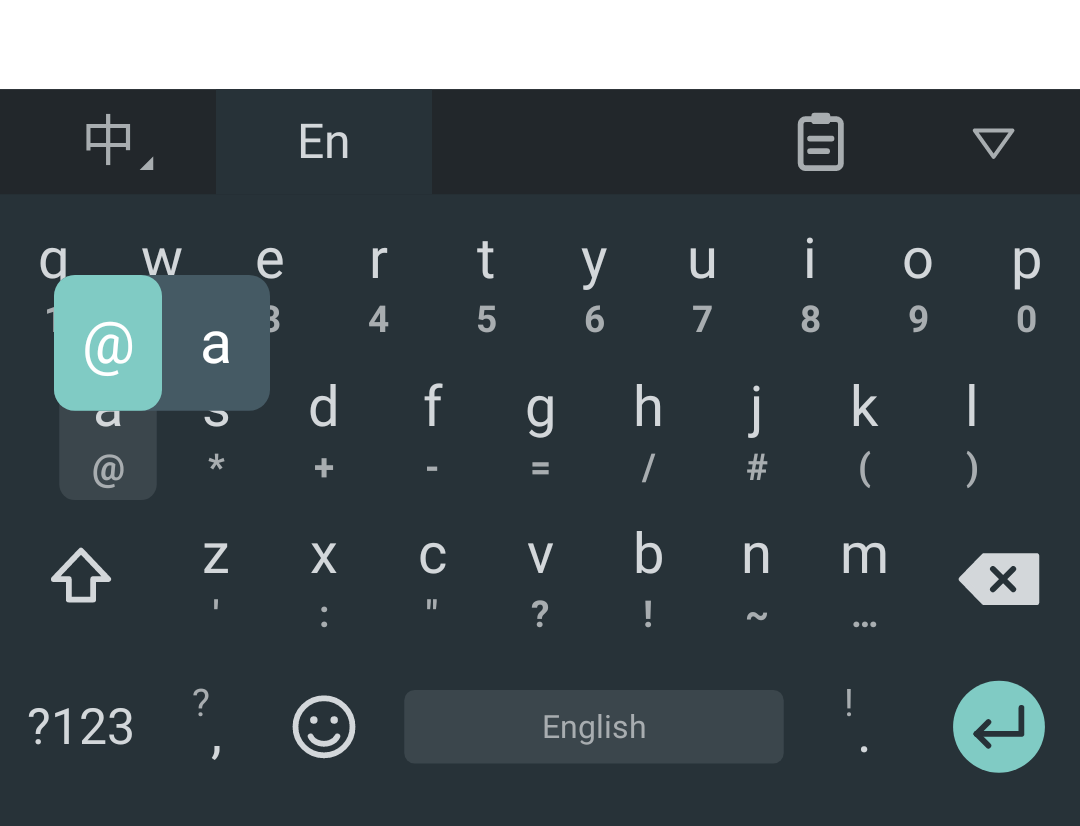
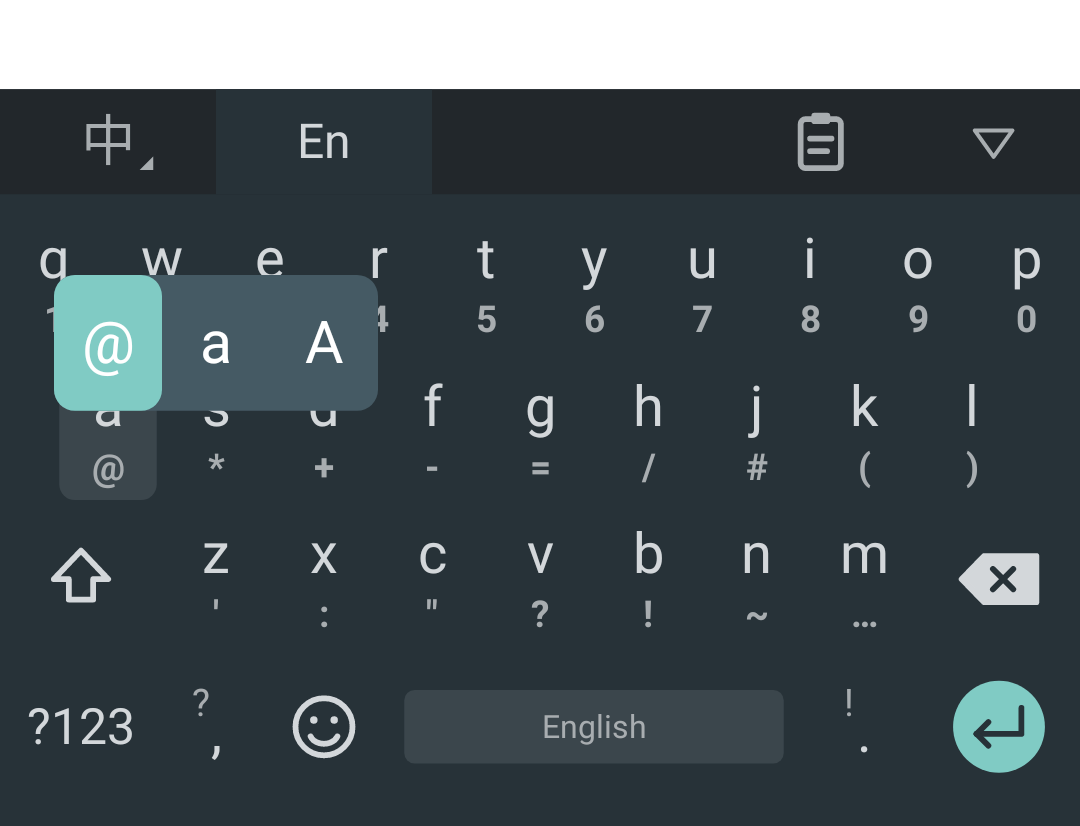
英文長按多了大寫字母；修正工作室拖圓角滑桿時放大的按鍵沒有跟著變
- 長按字母：符號、目前大小寫、另一種大小寫（@ a A），選哪個就照原樣打出來
- 主題工作室：改樣式、拖滑桿、改圖案時，放大的按鍵也會立刻重畫

Claude-Session: https://claude.ai/code/session_01YEi7AGz9LaiD389faVzAY6

Changed region(s): [[0.2444, 0.3329, 0.3667, 0.5145]]

diff --git a/app/src/test/java/io/github/yolanda1027/catpaw/EnglishLongPressTest.kt b/app/src/test/java/io/github/yolanda1027/catpaw/EnglishLongPressTest.kt
@@ -1,0 +1,72 @@
+package io.github.yolanda1027.catpaw
+
+import android.os.SystemClock
+import android.view.MotionEvent
+import android.view.View
+import org.junit.Assert.assertEquals
+import org.junit.Assert.assertTrue
+import org.junit.Test
+import org.junit.runner.RunWith
+import org.robolectric.RobolectricTestRunner
+import org.robolectric.RuntimeEnvironment
+import org.robolectric.annotation.Config
+import org.robolectric.annotation.GraphicsMode
+import org.robolectric.shadows.ShadowLooper
+import java.util.concurrent.TimeUnit
+
+/** 英文字母長按：@ a A 三個選項，選哪個就照原樣打哪個（不管大寫有沒有開） */
+@RunWith(RobolectricTestRunner::class)
+@GraphicsMode(GraphicsMode.Mode.NATIVE)
+@Config(sdk = [34], qualifiers = "w411dp-h891dp-420dpi")
+class EnglishLongPressTest {
+
+    private fun longPressA(shift: Int, slideToX: Float?): Key? {
+        val ctx = RuntimeEnvironment.getApplication()
+        val kv = CatKeyboardView(ctx, Prefs(ctx), Haptics(ctx))
+        kv.rows = Layouts.ENGLISH
+        kv.isChinese = false
+        kv.shiftState = shift
+        kv.measure(View.MeasureSpec.makeMeasureSpec(1080, View.MeasureSpec.EXACTLY), View.MeasureSpec.UNSPECIFIED)
+        kv.layout(0, 0, kv.measuredWidth, kv.measuredHeight)
+        var got: Key? = null
+        kv.listener = object : CatKeyboardView.Listener {
+            override fun onKey(key: Key, longPress: Boolean) { got = key }
+            override fun onTabChinese() {}
+            override fun onTabEnglish() {}
+            override fun onHide() {}
+            override fun onCandidate(index: Int) {}
+            override fun onSymbolTab(index: Int) {}
+            override fun onSymbolSwipe(direction: Int) {}
+            override fun onClipboard() {}
+            override fun onQuick(item: String) {}
+        }
+        // a：第二排第一顆（前面空半格），中心 x = 108
+        val rowEn = 45f * 5 / 4 * 2.625f
+        val y = 89f + 105f + 16f + rowEn * 1.5f
+        val t = SystemClock.uptimeMillis()
+        kv.dispatchTouchEvent(MotionEvent.obtain(t, t, MotionEvent.ACTION_DOWN, 108f, y, 0))
+        ShadowLooper.idleMainLooper(600, TimeUnit.MILLISECONDS)
+        val x = slideToX ?: 108f
+        kv.dispatchTouchEvent(MotionEvent.obtain(t, t + 700, MotionEvent.ACTION_MOVE, x, y, 0))
+        kv.dispatchTouchEvent(MotionEvent.obtain(t, t + 750, MotionEvent.ACTION_UP, x, y, 0))
+        return got
+    }
+
+    @Test fun releaseRightAwayTypesTheSymbol() {
+        assertEquals("@", longPressA(0, null)?.text)
+    }
+
+    @Test fun slideToUppercase() {
+        // 選項：@（54–162）、a（162–270）、A（270–378）
+        val k = longPressA(0, 324f)!!
+        assertEquals("A", k.text)
+        assertTrue(k.exact)
+    }
+
+    @Test fun lowercaseStaysLowercaseEvenWithShift() {
+        // 開大寫時選項變成 @ A a；選最右邊的 a，打出來就是小寫（exact = true，服務不會再轉大寫）
+        val k = longPressA(1, 324f)!!
+        assertEquals("a", k.text)
+        assertTrue(k.exact)
+    }
+}

diff --git a/app/src/main/java/io/github/yolanda1027/catpaw/CatKeyboardView.kt b/app/src/main/java/io/github/yolanda1027/catpaw/CatKeyboardView.kt
@@ -166,9 +166,16 @@ class CatKeyboardView(
             // 英文字母：大寫、注音、小寫，預設停在注音
             PopupOptions(listOf(sub.uppercase(), key.label, sub.lowercase()), default = 1, main = 1)
         } else {
-            // 數字、符號：預設停在數字／符號（長按放開＝打數字，跟以前一樣）
-            // 英文字母鍵開了大寫時，選單裡的字母也是大寫
-            PopupOptions(listOf(sub, labelFor(key)), default = 0, main = 1)
+            val l = key.label
+            if (key.act == Act.TEXT && l.length == 1 && l[0].isLetter()) {
+                // 英文字母：符號、現在的大小寫、另一種大小寫（例如 @ a A），預設停在符號
+                val now = labelFor(key)
+                val other = if (now == l.uppercase()) l.lowercase() else l.uppercase()
+                PopupOptions(listOf(sub, now, other), default = 0, main = 1)
+            } else {
+                // 數字、符號：預設停在數字／符號（長按放開＝打數字，跟以前一樣）
+                PopupOptions(listOf(sub, key.label), default = 0, main = 1)
+            }
         }
     }
 
@@ -1072,7 +1079,7 @@ class CatKeyboardView(
         when {
             o != null -> {
                 // 長按選單：選到什麼就直接打出什麼（選注音就打出注音符號本身，不進選字）
-                listener?.onKey(Key(o.items[popupSel], Act.TEXT), false)
+                listener?.onKey(Key(o.items[popupSel], Act.TEXT, exact = true), false)
             }
             !longFired -> listener?.onKey(kr.key, false)
         }

diff --git a/app/src/main/java/io/github/yolanda1027/catpaw/CatImeService.kt b/app/src/main/java/io/github/yolanda1027/catpaw/CatImeService.kt
@@ -346,7 +346,7 @@ class CatImeService : InputMethodService(), CatKeyboardView.Listener,
                 if (page == Page.SYMBOL) {
                     if (symCat == Symbols.KAOMOJI) addRecentKaomoji(key.text) else addRecentSymbol(key.text)
                 }
-                val upper = !chinese && page == Page.MAIN && shift > 0
+                val upper = !key.exact && !chinese && page == Page.MAIN && shift > 0
                 commitText(if (upper) key.text.uppercase() else key.text)
                 if (shift == 1 && page == Page.MAIN) {
                     shift = 0

diff --git a/app/src/main/java/io/github/yolanda1027/catpaw/StudioActivity.kt b/app/src/main/java/io/github/yolanda1027/catpaw/StudioActivity.kt
@@ -181,6 +181,7 @@ class StudioActivity : Activity() {
         styles = styles.with(id, change(styles.map[id] ?: KeyStyle()))
         KeyStyles.save(prefs, styles)
         kv.reloadPrefs()
+        zoom.invalidate() // 放大的按鍵也要跟著重畫（拖滑桿時不會重建面板）
         if (rebuild) refresh()
     }
 
@@ -304,6 +305,7 @@ class StudioActivity : Activity() {
         decals = list
         Decals.save(prefs, list)
         kv.setDecalsLive(list)
+        zoom.invalidate()
         if (rebuild) refresh()
     }
 

diff --git a/app/src/main/java/io/github/yolanda1027/catpaw/Layouts.kt b/app/src/main/java/io/github/yolanda1027/catpaw/Layouts.kt
@@ -18,6 +18,8 @@ data class Key(
     val weight: Float = 1f,
     val style: Style = Style.CHAR,
     val icon: Icon? = null,
+    /** true = 照原樣打出來，不管大寫開沒開（長按選單選的字） */
+    val exact: Boolean = false,
 ) {
     /** 長按的字畫在主字下面（注音鍵、英文字母鍵）；其他（標點）畫在上面 */
     val subBelow: Boolean
